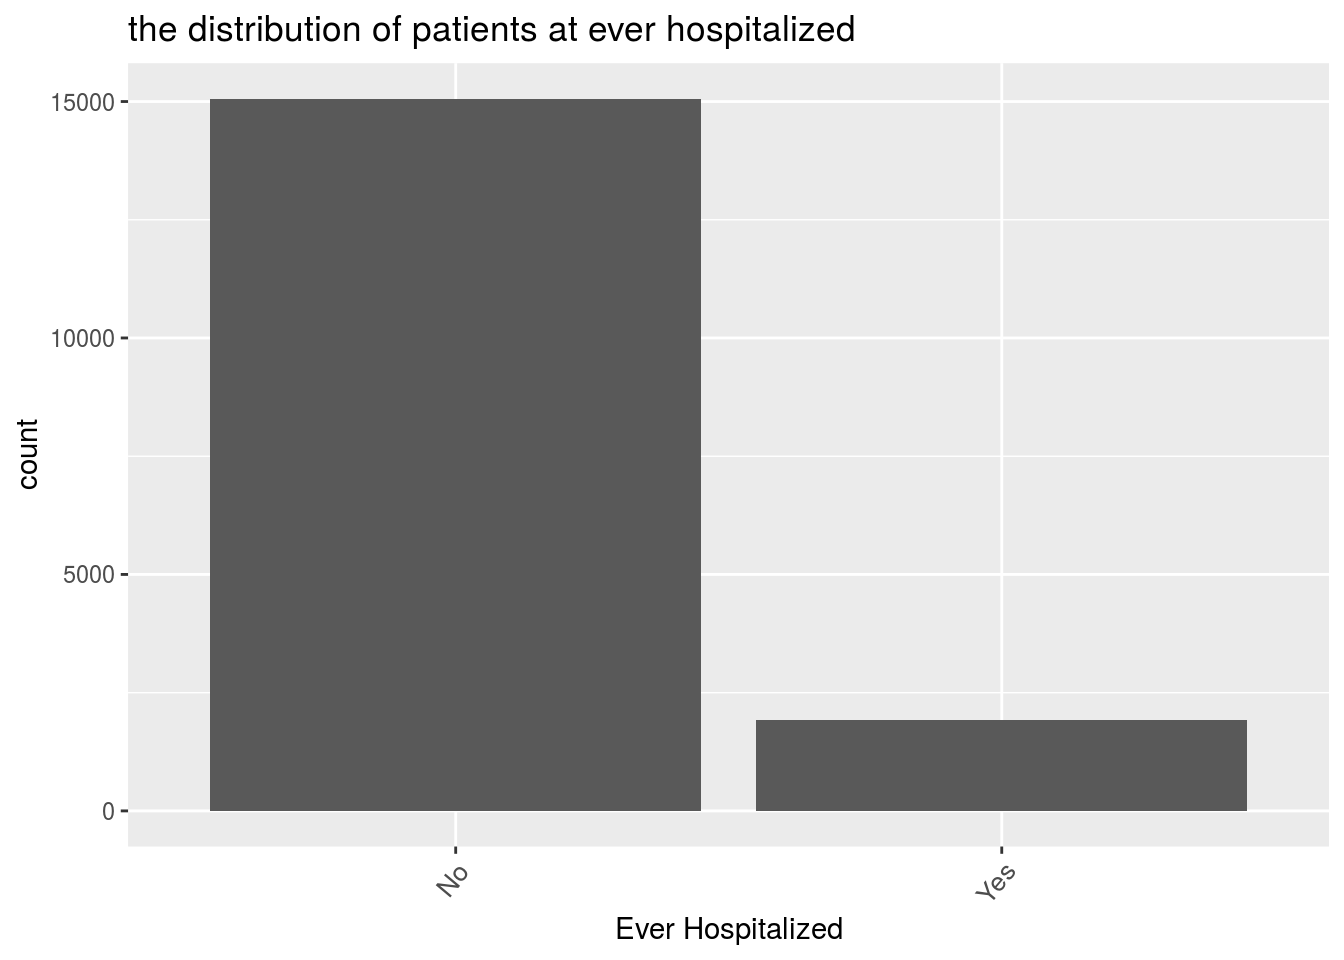
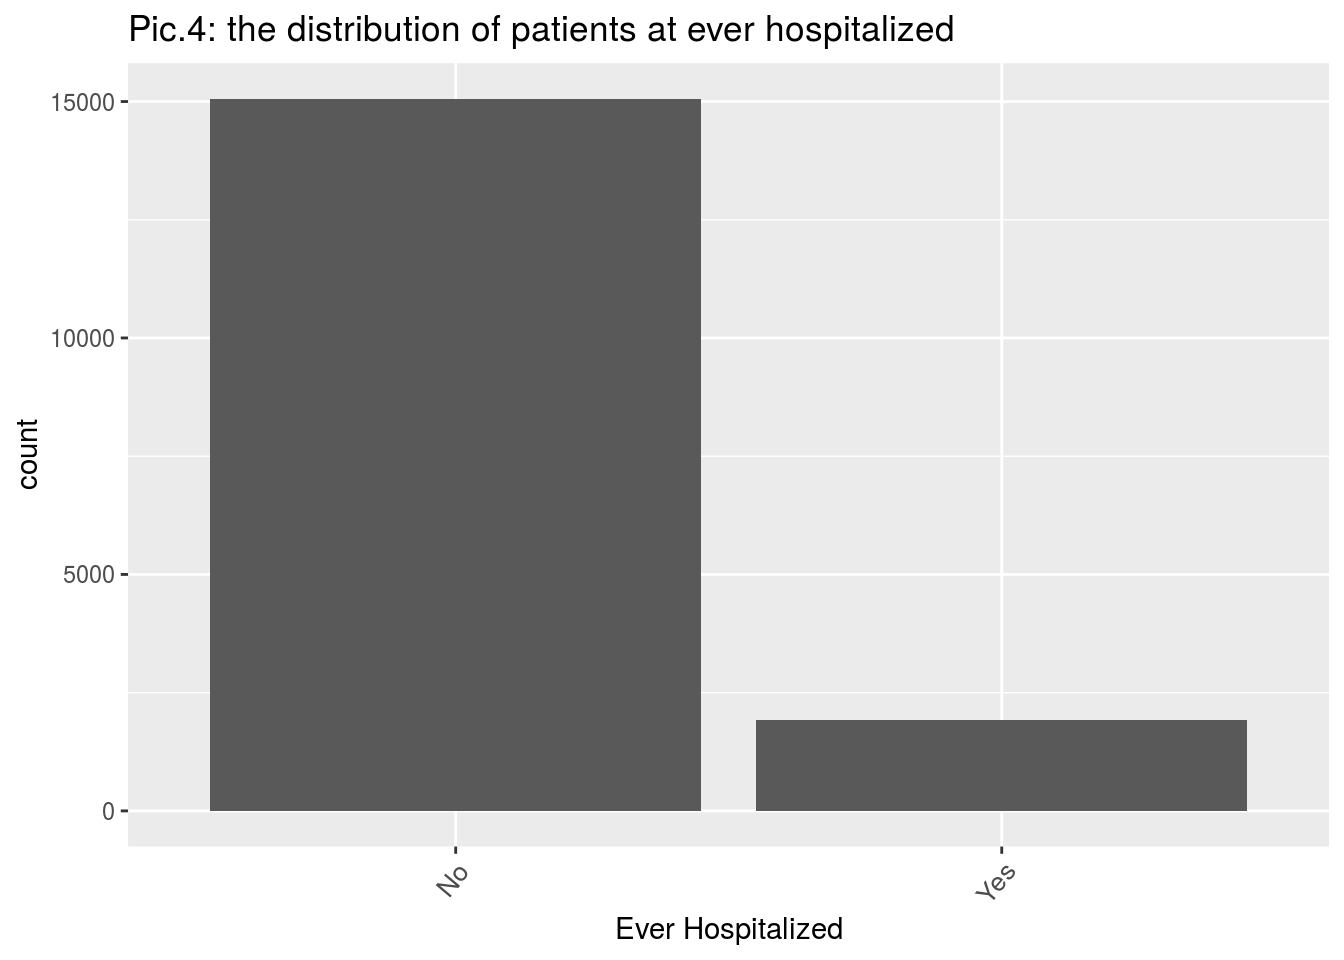
Stitch baby

Changed region(s): [[0.0938, 0.0, 0.7188, 0.0625]]

diff --git a/content/post/2015-07-23-r-rmarkdown.html b/content/post/2015-07-23-r-rmarkdown.html
@@ -39,7 +39,7 @@ tags: ["R Markdown", "plot", "regression"]
 <font size=3>        From Pic.1 we could find that people in different age groups have different probability for not cured. So, age might be a risk factor. And especially for peoples with age elder than 70, they have higher probability of not cured than other ages which means that they tend to have higher risk for severe COVID-19. This result prove one of the guess of potential risks by CDC <span class="citation">(“Assessing Risk Factors for Severe Covid-19 Illness” 2020)</span>, but it’s a little bit higher than the conclusion in the report published by MASSACHUSETTS GENERAL HOSPITAL <span class="citation">(“Risk Factors for Covid-19 Disease Progression” 2020)</span>.</font></p>
 <p><img src="/post/2015-07-23-r-rmarkdown_files/figure-html/unnamed-chunk-2-1.png" width="672" /></p>
 <p><font size=5>-Gender:</font><br />
-<font size=3>        By the data for gender, it could find that female patient are more than male patient which means that females are in risk of infection of COVID19 comparing to males. However, the probability of not cured for men is slightly higher than that for women, so males are a little bit more in risk of severe COVID19 than females. So in general, when facing to the epidemic, there is no gender difference. Both male and female should pay attention to the COVID-19 prevention.</font>
+<font size=3>        By the data for gender shown in Pic.2, it could find that female patient are more than male patient which means that females are in risk of infection of COVID19 comparing to males. However, the probability of not cured for men is slightly higher than that for women, so males are a little bit more in risk of severe COVID19 than females. So in general, when facing to the epidemic, there is no gender difference. Both male and female should pay attention to the COVID-19 prevention.</font>
 <img src="/post/2015-07-23-r-rmarkdown_files/figure-html/unnamed-chunk-3-1.png" width="672" /></p>
 <pre><code>## `summarise()` ungrouping output (override with `.groups` argument)
 ## # A tibble: 4 x 2
@@ -50,7 +50,7 @@ tags: ["R Markdown", "plot", "regression"]
 ## 3 OTHER                                                    0    
 ## 4 TRANSGENDER                                              0</code></pre>
 <p><font size=5>-Source:</font><br />
-<font size=3>        Based on the data for Neighbourhood Name, we could see that there are several locations with large amount of patients. And patients in these serious area have high proportion to be associated with outbreaks rather than sporadic. For example, nearly 60% infected peoples in the serious area named “Islington-City Centre West” is asssociated with outbreaks (Refer to Appendix). In addition, according to Pic.2, it is obviously to see that the majority of patients are infected by outbreak associated and close contact. So, by the suggestion from dataset, we could now that those people who closely contact with strangers would be in high risks of suffering from COVID-19. This also remind that those people who have high risk for severe COVID-19 need to stay away from large crowds and keep distance from strangers.</font></p>
+<font size=3>        Based on the data for Neighbourhood Name, we could see that there are several locations with large amount of patients. And patients in these serious area have high proportion to be associated with outbreaks rather than sporadic. For example, nearly 60% infected peoples in the serious area named “Islington-City Centre West” is asssociated with outbreaks (Refer to Appendix). In addition, according to Pic.3, it is obviously to see that the majority of patients are infected by outbreak associated and close contact. So, by the suggestion from dataset, we could now that those people who closely contact with strangers would be in high risks of suffering from COVID-19. This also remind that those people who have high risk for severe COVID-19 need to stay away from large crowds and keep distance from strangers.</font></p>
 <pre><code>## `summarise()` ungrouping output (override with `.groups` argument)</code></pre>
 <p><img src="/post/2015-07-23-r-rmarkdown_files/figure-html/unnamed-chunk-5-1.png" width="672" /></p>
 <p><font size=5>-Treatment:</font><br />
@@ -77,7 +77,7 @@ tags: ["R Markdown", "plot", "regression"]
 <div id="short-conclusion" class="section level1">
 <h1>Short Conclusion</h1>
 <p><font size=3>        By analysis, we could conclude that age is a risk factor and for people elder than 70 years old, they will be in the high risk for severe COVID-19. Gender could be a feature but not be a distinct risk factor, females are more likely to have COVID-19, but they also have higher probability of cured than males. Source is another risk factor, it notice us that gathering crowds of people together and closely contact to each other may increase the risk of infection a lot. People in high risk for severe COVID-19 should prevent this. And treatment could make people have higher probability to be cured, so if people with higher risk for severe COVID-19 when they find out themselves have COVID-19, they need to go to hospital that treatments are helpful.
-Besides, I also observed several limitations. First of all, the dataset has too few kinds of variables to support the research on risk factors. Like what have been mentioned in the report from CDC, race, certain medications usage, Poverty and crowding might also be potential risk factors. However, these features do not be recorded in the dataset. Besides, the amount of some kinds of variables is not plenty enough. For example,there is a huge difference between the number of people who are hospitalized and those who are not hospitalized (Refer to Appendix:code). This may affect the result of our study.</font><br />
+Besides, I also observed several limitations. First of all, the dataset has too few kinds of variables to support the research on risk factors. Like what have been mentioned in the report from CDC, race, certain medications usage, Poverty and crowding might also be potential risk factors. However, these features do not be recorded in the dataset. Besides, the amount of some kinds of variables is not plenty enough. For example,there is a huge difference between the number of people who are hospitalized and those who are not hospitalized (Refer to Appendix:code Pic.4). This may affect the result of our study.</font><br />
 <font size=3>        In the next step, I will try to get more datas for analysis, and try to use these variables to construct a model for identifying patients who is in danger of sever COVID-19.</font></p>
 <p><img src="/post/2015-07-23-r-rmarkdown_files/figure-html/unnamed-chunk-7-1.png" width="672" /><img src="/post/2015-07-23-r-rmarkdown_files/figure-html/unnamed-chunk-7-2.png" width="672" /><img src="/post/2015-07-23-r-rmarkdown_files/figure-html/unnamed-chunk-7-3.png" width="672" /></p>
 </div>

diff --git a/public/2020/09/27/what-would-be-the-risk-factors-for-severe-covid-19-a-population-based-statistical-study-of-17872-patients-record-in-toronto/index.html b/public/2020/09/27/what-would-be-the-risk-factors-for-severe-covid-19-a-population-based-statistical-study-of-17872-patients-record-in-toronto/index.html
@@ -105,7 +105,7 @@
 <font size=3>        From Pic.1 we could find that people in different age groups have different probability for not cured. So, age might be a risk factor. And especially for peoples with age elder than 70, they have higher probability of not cured than other ages which means that they tend to have higher risk for severe COVID-19. This result prove one of the guess of potential risks by CDC <span class="citation">(“Assessing Risk Factors for Severe Covid-19 Illness” 2020)</span>, but it’s a little bit higher than the conclusion in the report published by MASSACHUSETTS GENERAL HOSPITAL <span class="citation">(“Risk Factors for Covid-19 Disease Progression” 2020)</span>.</font></p>
 <p><img src="../../../../post/2015-07-23-r-rmarkdown_files/figure-html/unnamed-chunk-2-1.png" width="672" /></p>
 <p><font size=5>-Gender:</font><br />
-<font size=3>        By the data for gender, it could find that female patient are more than male patient which means that females are in risk of infection of COVID19 comparing to males. However, the probability of not cured for men is slightly higher than that for women, so males are a little bit more in risk of severe COVID19 than females. So in general, when facing to the epidemic, there is no gender difference. Both male and female should pay attention to the COVID-19 prevention.</font>
+<font size=3>        By the data for gender shown in Pic.2, it could find that female patient are more than male patient which means that females are in risk of infection of COVID19 comparing to males. However, the probability of not cured for men is slightly higher than that for women, so males are a little bit more in risk of severe COVID19 than females. So in general, when facing to the epidemic, there is no gender difference. Both male and female should pay attention to the COVID-19 prevention.</font>
 <img src="../../../../post/2015-07-23-r-rmarkdown_files/figure-html/unnamed-chunk-3-1.png" width="672" /></p>
 <pre><code>## `summarise()` ungrouping output (override with `.groups` argument)
 ## # A tibble: 4 x 2
@@ -116,7 +116,7 @@
 ## 3 OTHER                                                    0    
 ## 4 TRANSGENDER                                              0</code></pre>
 <p><font size=5>-Source:</font><br />
-<font size=3>        Based on the data for Neighbourhood Name, we could see that there are several locations with large amount of patients. And patients in these serious area have high proportion to be associated with outbreaks rather than sporadic. For example, nearly 60% infected peoples in the serious area named “Islington-City Centre West” is asssociated with outbreaks (Refer to Appendix). In addition, according to Pic.2, it is obviously to see that the majority of patients are infected by outbreak associated and close contact. So, by the suggestion from dataset, we could now that those people who closely contact with strangers would be in high risks of suffering from COVID-19. This also remind that those people who have high risk for severe COVID-19 need to stay away from large crowds and keep distance from strangers.</font></p>
+<font size=3>        Based on the data for Neighbourhood Name, we could see that there are several locations with large amount of patients. And patients in these serious area have high proportion to be associated with outbreaks rather than sporadic. For example, nearly 60% infected peoples in the serious area named “Islington-City Centre West” is asssociated with outbreaks (Refer to Appendix). In addition, according to Pic.3, it is obviously to see that the majority of patients are infected by outbreak associated and close contact. So, by the suggestion from dataset, we could now that those people who closely contact with strangers would be in high risks of suffering from COVID-19. This also remind that those people who have high risk for severe COVID-19 need to stay away from large crowds and keep distance from strangers.</font></p>
 <pre><code>## `summarise()` ungrouping output (override with `.groups` argument)</code></pre>
 <p><img src="../../../../post/2015-07-23-r-rmarkdown_files/figure-html/unnamed-chunk-5-1.png" width="672" /></p>
 <p><font size=5>-Treatment:</font><br />
@@ -143,7 +143,7 @@
 <div id="short-conclusion" class="section level1">
 <h1>Short Conclusion</h1>
 <p><font size=3>        By analysis, we could conclude that age is a risk factor and for people elder than 70 years old, they will be in the high risk for severe COVID-19. Gender could be a feature but not be a distinct risk factor, females are more likely to have COVID-19, but they also have higher probability of cured than males. Source is another risk factor, it notice us that gathering crowds of people together and closely contact to each other may increase the risk of infection a lot. People in high risk for severe COVID-19 should prevent this. And treatment could make people have higher probability to be cured, so if people with higher risk for severe COVID-19 when they find out themselves have COVID-19, they need to go to hospital that treatments are helpful.
-Besides, I also observed several limitations. First of all, the dataset has too few kinds of variables to support the research on risk factors. Like what have been mentioned in the report from CDC, race, certain medications usage, Poverty and crowding might also be potential risk factors. However, these features do not be recorded in the dataset. Besides, the amount of some kinds of variables is not plenty enough. For example,there is a huge difference between the number of people who are hospitalized and those who are not hospitalized (Refer to Appendix:code). This may affect the result of our study.</font><br />
+Besides, I also observed several limitations. First of all, the dataset has too few kinds of variables to support the research on risk factors. Like what have been mentioned in the report from CDC, race, certain medications usage, Poverty and crowding might also be potential risk factors. However, these features do not be recorded in the dataset. Besides, the amount of some kinds of variables is not plenty enough. For example,there is a huge difference between the number of people who are hospitalized and those who are not hospitalized (Refer to Appendix:code Pic.4). This may affect the result of our study.</font><br />
 <font size=3>        In the next step, I will try to get more datas for analysis, and try to use these variables to construct a model for identifying patients who is in danger of sever COVID-19.</font></p>
 <p><img src="../../../../post/2015-07-23-r-rmarkdown_files/figure-html/unnamed-chunk-7-1.png" width="672" /><img src="../../../../post/2015-07-23-r-rmarkdown_files/figure-html/unnamed-chunk-7-2.png" width="672" /><img src="../../../../post/2015-07-23-r-rmarkdown_files/figure-html/unnamed-chunk-7-3.png" width="672" /></p>
 </div>
